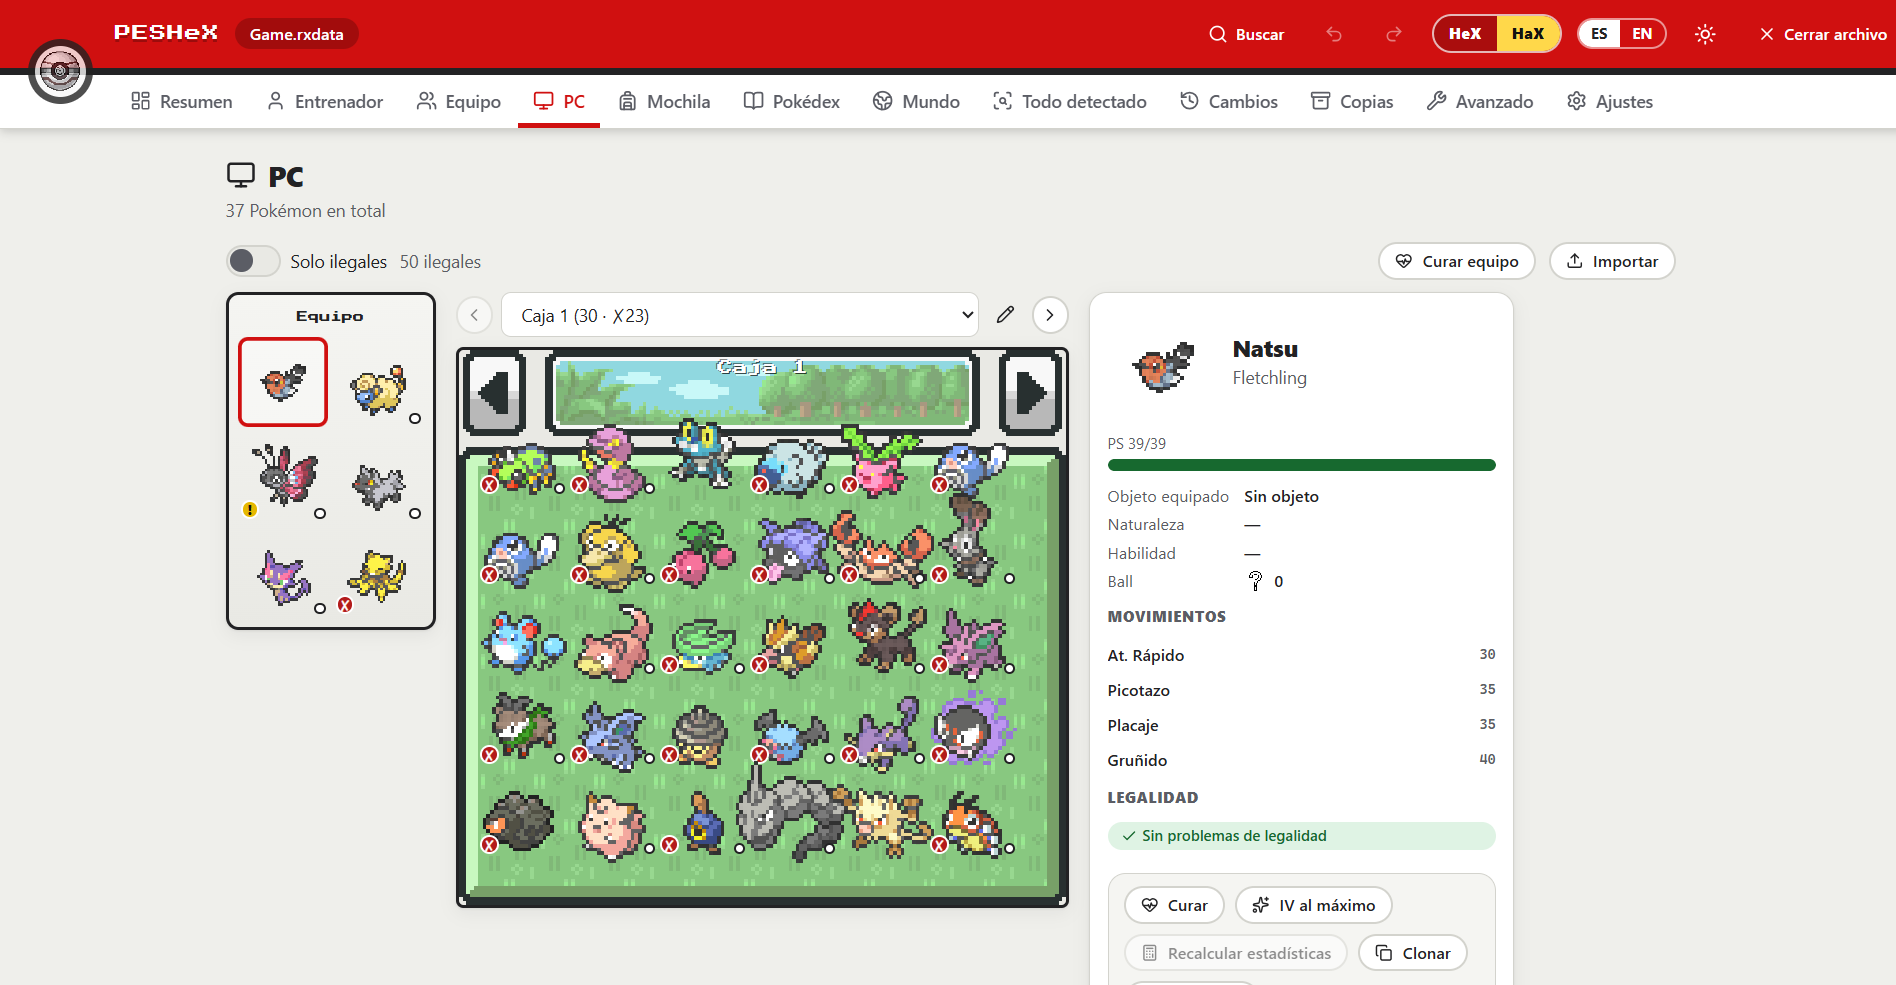
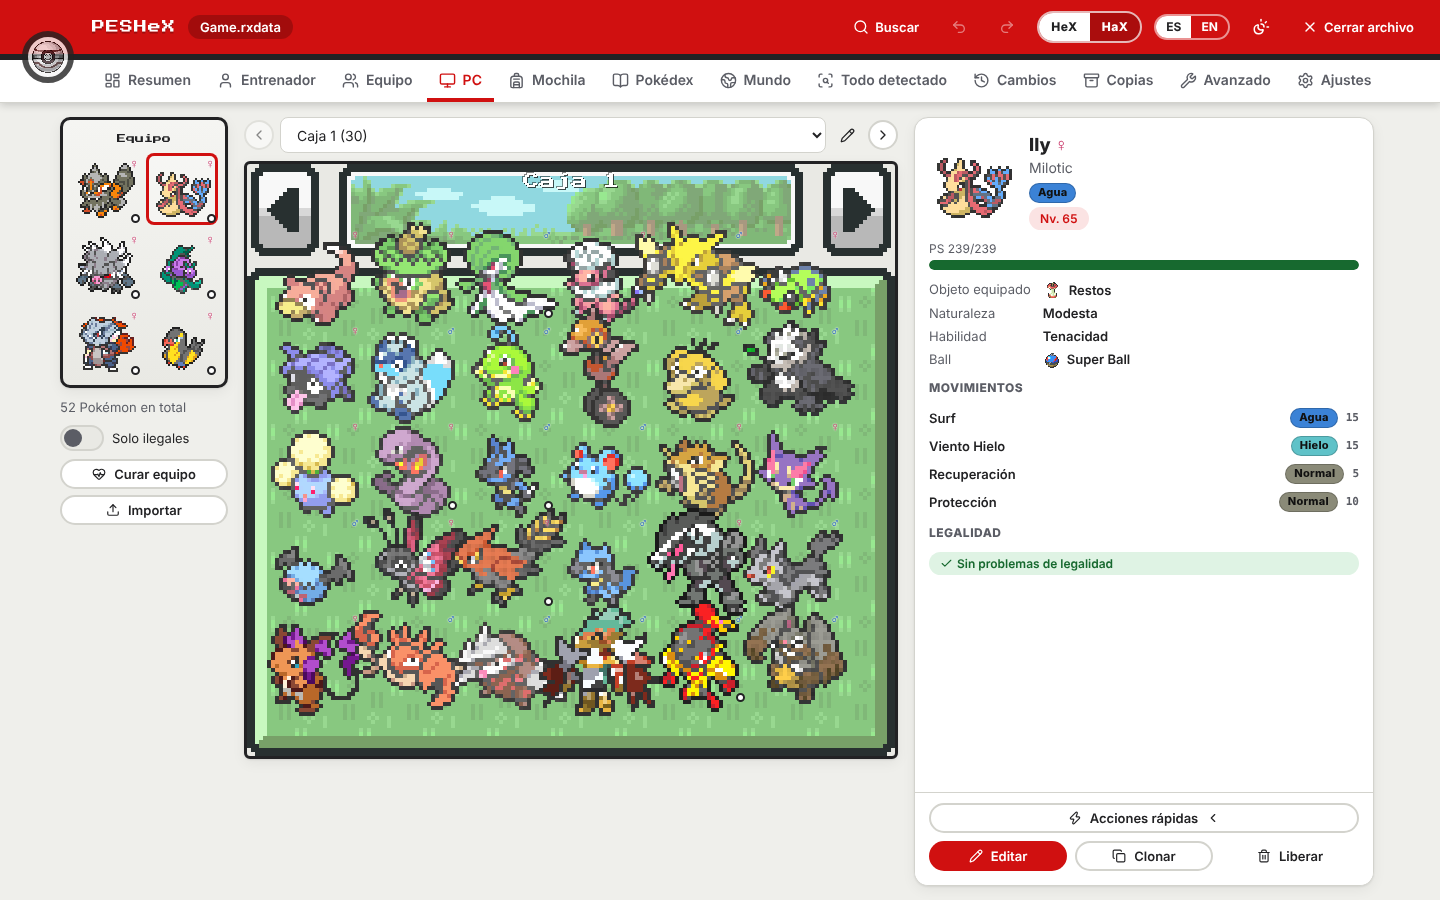
docs: capturas con el juego Z real y galería del README

diff --git a/e2e/docs.spec.ts b/e2e/docs.spec.ts
@@ -1,11 +1,18 @@
-// Capturas del README (docs/screenshots/*.png) con una carpeta de juego SINTETICA ya vinculada y analizada.
+// Capturas del README (docs/screenshots/*.png) con una carpeta de juego REAL ya vinculada y analizada.
 // No corre en la CI normal: `npm run docs:shots` (o PESHEX_DOCS=1 npx playwright test e2e/docs.spec.ts).
+//
+//   PESHEX_DOCS_GAME=z          Pokémon Z real: test_saves/Game.rxdata + test_pbs/*_POKEMON_Z (Data, Graphics, PBS).
+//   PESHEX_DOCS_GAME=synthetic  respaldo sin test_pbs/: carpeta de juego sintética (círculos de colores en vez de sprites).
+//
+// Sin la variable se usa Z si existe test_pbs/. Los gráficos de las capturas son los del propio juego del usuario:
+// PESHeX no los incluye ni los distribuye.
 import { expect, test } from "@playwright/test";
 import fs from "node:fs";
 import os from "node:os";
 import path from "node:path";
 import { buildFakeGame } from "./support/fakegame";
 import { openSave, ROOT, serveGameAssets, setup, teardown, type Env } from "./support/harness";
+import { realGame, realGameAvailable } from "./support/realgames";
 
 test.skip(!process.env.PESHEX_DOCS, "solo con PESHEX_DOCS=1 (npm run docs:shots)");
 
@@ -16,31 +23,45 @@ test.afterEach(async () => {
 });
 
 const OUT = path.join(ROOT, "docs", "screenshots");
+const REAL = (process.env.PESHEX_DOCS_GAME ?? (realGameAvailable("z") ? "z" : "synthetic")) === "z";
+
+/** Qué se enseña en cada captura según el juego (los nombres cambian entre el Z real y el sintético). */
+const DEMO = REAL
+  ? { save: "Game.rxdata", trainer: "Kizuga", editRef: "party/1", palette: "milotic", paletteHit: /Milotic/, dex: "arcanine", dexName: "Arcanine", tm: "MT0" }
+  : { save: "Partida_2.rxdata", trainer: "Furikita", editRef: "party/1", palette: "grillita", paletteHit: /Grillita/, dex: "torrac", dexName: "Gatito Fuego", tm: "pot" };
 
 test("capturas del README con la carpeta del juego analizada", async ({ page }) => {
-  test.setTimeout(180_000);
+  test.setTimeout(300_000);
   fs.mkdirSync(OUT, { recursive: true });
-  const shot = (name: string) => page.screenshot({ path: path.join(OUT, `${name}.png`) });
+  const shot = async (name: string) => {
+    await page.waitForTimeout(450);
+    await page.screenshot({ path: path.join(OUT, `${name}.png`) });
+  };
   const nav = (name: string) => page.getByRole("button", { name, exact: true }).click();
 
-  env = await setup(page);
+  env = await setup(page, DEMO.save);
   await serveGameAssets(page);
-  await page.setViewportSize({ width: 1360, height: 1120 });
-  await openSave(page, env);
+  await page.setViewportSize({ width: 1440, height: 900 });
 
   // Ruta estable y corta para que la captura de Ajustes no enseñe un directorio temporal aleatorio.
-  const gameDir = path.join(os.tmpdir(), "peshex-docs", "Mi Juego");
-  fs.rmSync(path.dirname(gameDir), { recursive: true, force: true });
-  const game = buildFakeGame(ROOT, gameDir, env.savePath, { TORRACAT: "Gatito Fuego" }, { fronts: true });
-  env.bridge.dialogDir = game.root;
+  const base = path.join(os.tmpdir(), "peshex-docs");
+  fs.rmSync(base, { recursive: true, force: true });
+  fs.mkdirSync(base, { recursive: true });
+  const gameDir = REAL
+    ? realGame("z", base, "Pokémon Z")
+    : buildFakeGame(ROOT, path.join(base, "Mi Juego"), env.savePath, { TORRACAT: "Gatito Fuego" }, { fronts: true }).root;
+  if (!gameDir) throw new Error("falta test_pbs/: usa PESHEX_DOCS_GAME=synthetic");
+  env.bridge.dialogDir = gameDir;
+  await openSave(page, env, "es", DEMO.trainer);
+
+  // Ajustes: la carpeta analizada (datos, límites, calibración)
   await nav("Ajustes");
   await page.getByRole("button", { name: "Elegir carpeta…" }).click();
-  await expect(page.getByText("Datos completos")).toBeVisible({ timeout: 30_000 });
-  await expect(page.getByText("Legalidad completa")).toBeVisible();
-
-  // Ajustes: la carpeta analizada (datos, límites, calibración y legalidad)
+  await expect(page.getByText("Datos completos")).toBeVisible({ timeout: 180_000 });
+  await expect(page.getByText(/imágenes indexadas/)).toBeVisible();
   const card = page.locator("section", { has: page.getByRole("heading", { name: "Carpeta del juego" }) });
   await card.scrollIntoViewIfNeeded();
+  await page.waitForTimeout(400);
   await card.screenshot({ path: path.join(OUT, "settings-game.png") });
 
   // HeX: aviso previo (con la carpeta ya vinculada) y, al aceptar, la tarjeta de legalidad del Resumen
@@ -53,30 +74,59 @@ test("capturas del README con la carpeta del juego analizada", async ({ page }) 
 
   await nav("Resumen");
   await expect(page.getByRole("button", { name: /^Legalidad/, expanded: true })).toBeVisible();
-  await expect(page.getByText("Legalidad completa").first()).toBeVisible();
-  await page.waitForTimeout(400);
   await shot("overview");
 
+  // PC: equipo, caja y panel de datos compacto; y «Acciones rápidas» desplegado hacia la izquierda
   await nav("PC");
-  await page.locator('[data-cell="party/1"]').click();
-  await expect(page.getByTestId("pc-info").getByTestId("ev-presets")).toBeVisible();
-  await page.waitForTimeout(500);
+  // La caja que se enseña es la primera con Pokémon (el save puede quedarse en una vacía).
+  const boxes = page.locator('select[aria-label="PC"]');
+  await boxes.waitFor();
+  const populated = await boxes.locator("option").evaluateAll((opts) => opts.find((o) => !/\(0\)/.test(o.textContent ?? ""))?.getAttribute("value") ?? null);
+  if (populated != null) await boxes.selectOption(populated);
+  await page.locator(`[data-cell="${DEMO.editRef}"]`).click();
+  const info = page.getByTestId("pc-info");
+  await expect(info.getByRole("button", { name: "Editar", exact: true })).toBeVisible();
   await shot("pc");
+  await info.getByRole("button", { name: /Acciones rápidas/ }).click();
+  await expect(page.getByRole("menu").or(page.getByRole("dialog", { name: /Acciones rápidas/ })).first()).toBeVisible();
+  await shot("pc-acciones");
+  await page.keyboard.press("Escape");
 
+  // Hoja de edición ancha: stats base, deslizadores, Poder oculto y estadísticas totales
+  await info.getByRole("button", { name: "Editar", exact: true }).click();
+  const drawer = page.getByRole("dialog");
+  await expect(drawer.getByTestId("base-stats")).toBeVisible();
+  await drawer.getByRole("tab", { name: "IV y EV" }).click();
+  await expect(drawer.getByText(/Poder oculto/).first()).toBeVisible();
+  await shot("editor");
+  await page.keyboard.press("Escape");
+
+  // Mochila: «Agregar objeto» arriba con el selector (nombre, icono e id)
+  await nav("Mochila");
+  const picker = page.getByRole("combobox", { name: "Objeto" }).first();
+  await picker.click();
+  await picker.fill(DEMO.tm);
+  await expect(page.getByRole("option").first()).toBeVisible();
+  await shot("bag");
+  await page.keyboard.press("Escape");
+
+  // Pokédex: lista y ficha de una especie con los datos del PBS
   await nav("Pokédex");
   await expect(page.getByText(/\d+ vistos · \d+ capturados/)).toBeVisible();
-  await page.waitForTimeout(400);
   await shot("pokedex");
+  await page.getByRole("textbox", { name: "Buscar por nombre o número" }).fill(DEMO.dex);
+  await page.getByRole("button", { name: `Ver la ficha de ${DEMO.dexName}` }).click();
+  await expect(page.getByTestId("species-sheet")).toBeVisible();
+  await shot("pokedex-ficha");
 
   await nav("Mundo");
-  await expect(page.getByText("Medalla 1")).toBeVisible();
-  await page.waitForTimeout(300);
+  await expect(page.getByRole("heading", { level: 1, name: "Mundo" })).toBeAttached();
   await shot("world");
 
   // Ctrl+K
   await page.keyboard.press("Control+k");
-  await page.getByRole("dialog", { name: "Buscar y comandos" }).getByRole("combobox").fill("grillita");
-  await expect(page.getByRole("option", { name: /Grillita/ })).toBeVisible();
+  await page.getByRole("dialog", { name: "Buscar y comandos" }).getByRole("combobox").fill(DEMO.palette);
+  await expect(page.getByRole("option", { name: DEMO.paletteHit }).first()).toBeVisible();
   await shot("palette");
   await page.keyboard.press("Escape");
 
@@ -90,7 +140,6 @@ test("capturas del README con la carpeta del juego analizada", async ({ page }) 
   await page.getByRole("button", { name: "Comparar", exact: true }).click();
   await expect(page.getByTestId("diff-view")).toBeVisible();
   await page.getByText("Partida guardada.").waitFor({ state: "hidden", timeout: 15_000 }).catch(() => undefined);
-  await page.waitForTimeout(400);
   await shot("diff");
-  fs.rmSync(path.dirname(gameDir), { recursive: true, force: true });
+  fs.rmSync(base, { recursive: true, force: true });
 });

diff --git a/e2e/support/realgames.ts b/e2e/support/realgames.ts
@@ -9,9 +9,9 @@ import { ROOT } from "./harness";
 
 export type RealGameKey = "z" | "anil";
 
-const CONFIG: Record<RealGameKey, { pbs: string; data?: string; graphics?: string; save: string }> = {
-  z: { pbs: "PBS_POKEMON_Z", data: "Data_POKEMON_Z", graphics: "Graphics_POKEMON_Z", save: "Game.rxdata" },
-  anil: { pbs: "PBS_POKEMON_ANIL", save: "Partida.rxdata" },
+const CONFIG: Record<RealGameKey, { title: string; pbs: string; data?: string; graphics?: string; save: string }> = {
+  z: { title: "Pokémon Z", pbs: "PBS_POKEMON_Z", data: "Data_POKEMON_Z", graphics: "Graphics_POKEMON_Z", save: "Game.rxdata" },
+  anil: { title: "Pokémon Añil", pbs: "PBS_POKEMON_ANIL", save: "Partida.rxdata" },
 };
 
 const DATA_FILES = ["Scripts.rxdata", "System.rxdata", "MapInfos.rxdata"];
@@ -23,10 +23,10 @@ export function realGameAvailable(key: RealGameKey): boolean {
 }
 
 /** Monta la carpeta del juego `key` dentro de `workDir` y devuelve su raíz (o null si falta test_pbs/). */
-export function realGame(key: RealGameKey, workDir: string): string | null {
+export function realGame(key: RealGameKey, workDir: string, name = `Juego ${key}`): string | null {
   if (!realGameAvailable(key)) return null;
   const cfg = CONFIG[key];
-  const root = path.join(workDir, `Juego ${key}`);
+  const root = path.join(workDir, name);
   fs.mkdirSync(path.join(root, "Data"), { recursive: true });
   fs.symlinkSync(path.join(TEST_PBS, cfg.pbs), path.join(root, "PBS"), "dir");
   if (cfg.data) {
@@ -38,6 +38,6 @@ export function realGame(key: RealGameKey, workDir: string): string | null {
   if (cfg.graphics && fs.existsSync(path.join(TEST_PBS, cfg.graphics))) {
     fs.symlinkSync(path.join(TEST_PBS, cfg.graphics), path.join(root, "Graphics"), "dir");
   }
-  fs.writeFileSync(path.join(root, "Game.ini"), `[Game]\nTitle=${key}\n`);
+  fs.writeFileSync(path.join(root, "Game.ini"), `[Game]\nTitle=${cfg.title}\n`);
   return root;
 }

diff --git a/README.md b/README.md
@@ -34,27 +34,37 @@ y con Windows 10 actualizado; si falta, PESHeX lo avisa y da el enlace).
 > (`Get-FileHash`). `LEEME.txt`, dentro del zip, lo explica paso a paso.
 
 <p align="center">
-  <img src="docs/screenshots/settings-game.png" alt="Carpeta del juego analizada: datos, límites, calibración y legalidad" width="96%" />
+  <img src="docs/screenshots/settings-game.png" alt="Carpeta del juego analizada: datos, límites y calibración" width="96%" />
 </p>
 <p align="center">
-  <img src="docs/screenshots/pc.png" alt="El PC como en los juegos, con Quick Actions y preset de EV sugerido" width="48%" />
-  <img src="docs/screenshots/overview.png" alt="Resumen con la legalidad comprobada contra tu juego" width="48%" />
+  <img src="docs/screenshots/pc.png" alt="El PC como en los juegos: equipo, caja y panel de datos compacto" width="48%" />
+  <img src="docs/screenshots/pc-acciones.png" alt="Acciones rápidas desplegadas hacia la izquierda" width="48%" />
 </p>
 <p align="center">
-  <img src="docs/screenshots/hex-warning.png" alt="Aviso al activar el modo HeX" width="48%" /> 
+  <img src="docs/screenshots/editor.png" alt="Hoja de edición ancha: stats base, deslizadores, Poder oculto y estadísticas" width="48%" />
+  <img src="docs/screenshots/pokedex-ficha.png" alt="Ficha de especie de la Pokédex con los datos de tu PBS" width="48%" />
+</p>
+<p align="center">
+  <img src="docs/screenshots/bag.png" alt="Agregar objeto: búsqueda por nombre, icono e id, con las MT nombradas" width="48%" />
+  <img src="docs/screenshots/overview.png" alt="Resumen con la legalidad comprobada contra tu juego (modo HeX)" width="48%" />
+</p>
+<p align="center">
+  <img src="docs/screenshots/hex-warning.png" alt="Aviso al activar el modo HeX" width="48%" />
+  <img src="docs/screenshots/pokedex.png" alt="Pokédex con los nombres y los iconos de tu juego" width="48%" />
+</p>
+<p align="center">
   <img src="docs/screenshots/world.png" alt="Interruptores y variables con nombre" width="48%" />
-</p>
-<p align="center">
-  <img src="docs/screenshots/pokedex.png" alt="Pokédex con los nombres de tu juego" width="48%" />
   <img src="docs/screenshots/palette.png" alt="Búsqueda global y comandos (Ctrl+K)" width="48%" />
 </p>
 <p align="center">
   <img src="docs/screenshots/diff.png" alt="Comparación entre una copia y la partida actual" width="48%" />
 </p>
 
-<sub>Capturas con una carpeta de juego **sintética** de pruebas, ya vinculada y analizada
-(círculos de colores en lugar de sprites): PESHeX no incluye gráficos oficiales; usa los de tu
-juego. Se regeneran con `npm run docs:shots`.</sub>
+<sub>Capturas con una partida y una carpeta de juego **reales** de *Pokémon Z* (un fangame de
+Essentials v16–v18), ya vinculada y analizada: los gráficos son los del propio juego del
+autor. PESHeX **no incluye ni distribuye** gráficos oficiales; usa los de tu juego. Se
+regeneran con `npm run docs:shots` (`PESHEX_DOCS_GAME=synthetic` usa una carpeta sintética
+de círculos de colores cuando no hay `test_pbs/`).</sub>
 
 ## Qué hace
 
